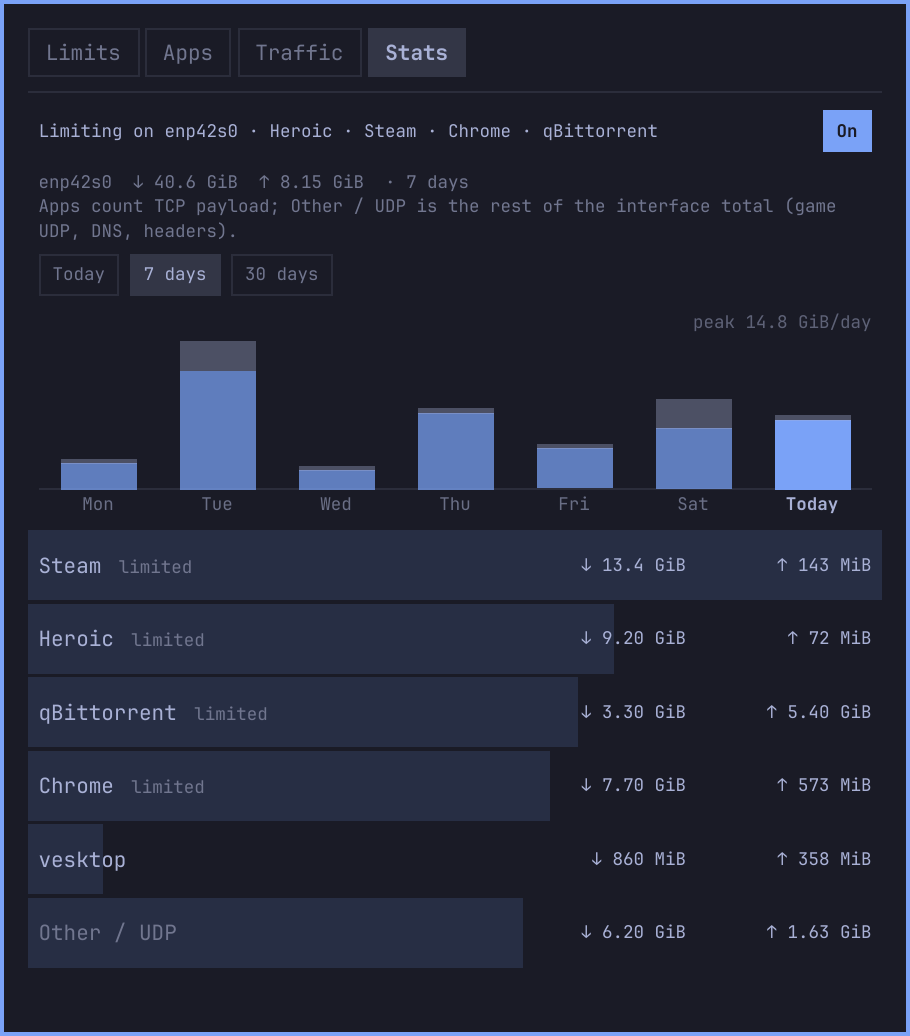
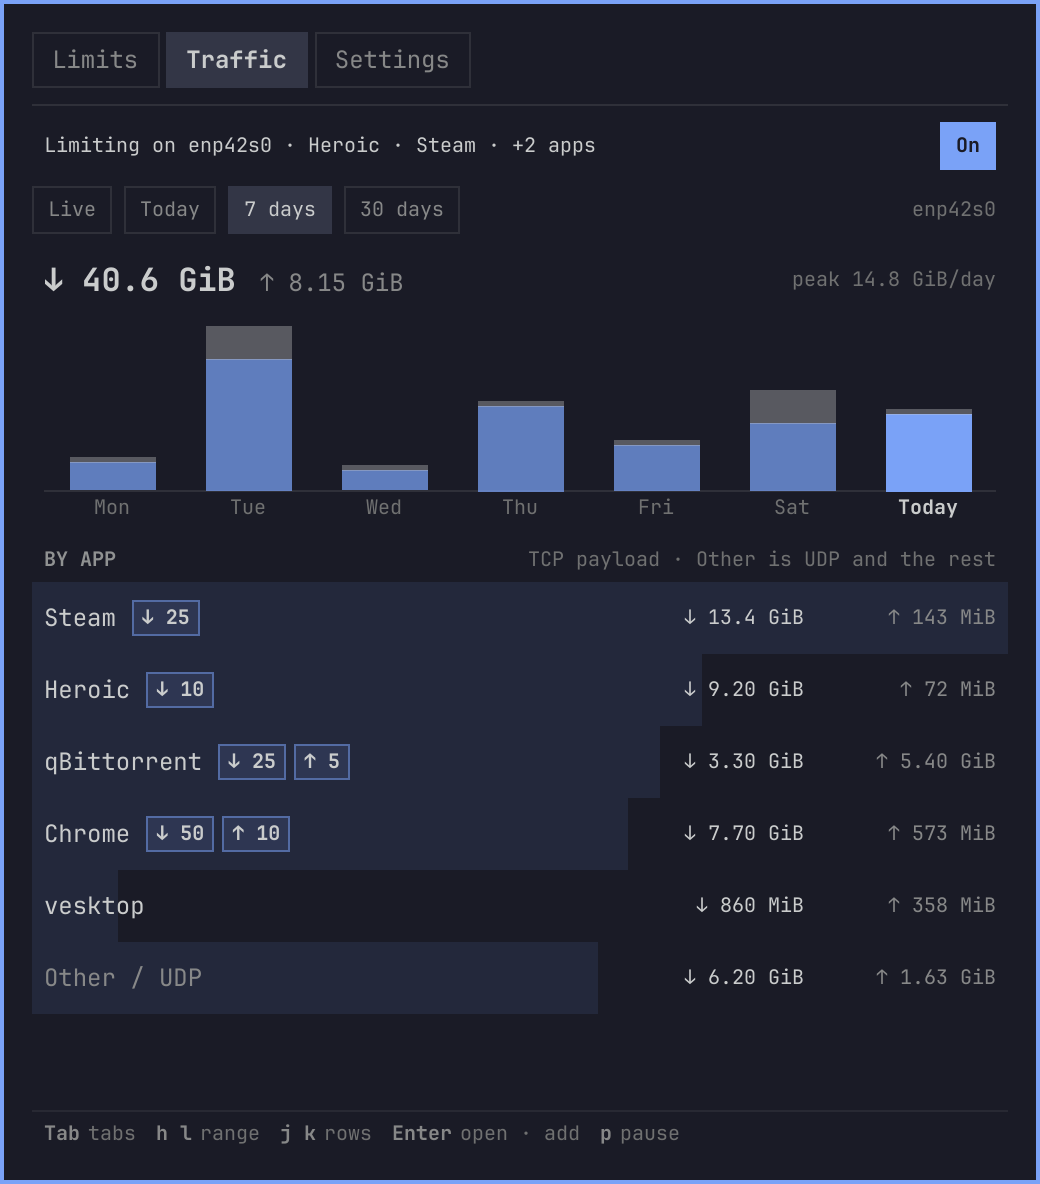
README and previews for the new layout, version 1.2.0

diff --git a/README.md b/README.md
@@ -5,31 +5,54 @@ apps — Heroic and Steam built in, plus any other program (Chrome, Vesktop, a
 torrent client…) — so one download doesn't wreck your ping while you play, and
 shows where your traffic went today, this week and this month.
 
-![Apps tab](preview.png)
+Two levels of tabs: **Limits** (Apps · Connection · + Add), **Traffic**
+(Live · Today · 7 days · 30 days) and **Settings**.
 
-- **Limits** — global download / upload caps on the default-route interface
-  (picked automatically, follows Wi-Fi ↔ Ethernet). **Off / 10 / 25 / 50 / 100**
-  Mbit/s or **Custom**.
-- **Apps** — per-app caps, matched by the app's systemd cgroup. **Heroic**
-  (incl. `legendary` / `gogdl` / `nile`) and **Steam** are always there; add
-  any other program from the ones that have connections open right now (one
-  click) or by process name (as in `ps -o comm`, e.g. `chrome`, `vesktop`,
-  `qbittorrent`). Up to 8 apps; custom ones have a **Remove** chip (click
-  twice). **Games-safe** / **Big transfers only** caps only TCP transfers past
-  4 MiB, so game UDP, calls and small requests stay fast.
-- **Traffic** — live per-app rates (from `ss`, no root) next to the interface
-  total.
-- **Stats** — how much each app downloaded / uploaded **today**, over **7** or
-  **30 days**, with a per-day chart and the interface total. Collected without
+| Limits › Apps | Limits › Apps › Heroic |
+| --- | --- |
+| ![Limits › Apps](preview.png) | ![App detail](preview-detail.png) |
+
+- **Limits › Apps** — one compact row per app: state dot, what it is doing
+  right now and its ↓ / ↑ caps. **Heroic** (incl. `legendary` / `gogdl` /
+  `nile`) and **Steam** are always there. **Enter** opens the app: Download
+  and Upload caps — **Off / 10 / 25 / 50 / 100** Mbit/s (the steps are
+  configurable) or **Custom**, each with an "≈ MB/s" hint — and **Games-safe**,
+  which caps only TCP transfers past 4 MiB so game UDP, calls and small
+  requests stay fast. Custom apps have a **Remove** chip (press twice).
+  Matched by the app's systemd cgroup.
+- **Limits › Connection** — download / upload caps for everything on the
+  default-route interface (picked automatically, follows Wi-Fi ↔ Ethernet).
+- **Limits › + Add** — any other program (Chrome, Vesktop, a torrent
+  client…): one of the ones online right now, or by process name (as in
+  `ps -o comm`). Up to 8 apps; a new app opens straight in its detail view.
+- **Traffic › Live** — the interface total and a stacked per-app chart of the
+  last 90 s, then live per-app rates (from `ss`, no root) with their caps and
+  an **Add** chip for programs that aren't limited yet.
+- **Traffic › Today / 7 days / 30 days** — how much each app downloaded /
+  uploaded, with a per-day chart and the interface total. Collected without
   root every 10 s (TCP byte counters from `ss` + `/sys/class/net`); whatever
   the per-app rows don't explain (game UDP, DNS, headers, root daemons) is the
-  **Other / UDP** row. Kept for 35 days in
+  **Other / UDP** row. Kept for 35 days (7 / 35 / 90 in Settings) in
   `~/.local/state/omarchy/yoyo.throttle/stats.json` (a few KB).
+- **Settings** — live rates in Mbit/s or MB/s, the bar widget style, the
+  preset steps, the Games-safe threshold (2 / 4 / 8 / 16 MiB, all apps),
+  history length, Clear history, and the helper's install / uninstall command.
 
-![Stats tab](preview-stats.png)
+| Traffic › Live | Traffic › 7 days | Settings |
+| --- | --- | --- |
+| ![Live traffic](preview-live.png) | ![Traffic history](preview-stats.png) | ![Settings](preview-settings.png) |
 
-**Tab** cycles tabs · **h/l** chips / range · **j/k** rows · **Enter** acts
-(adds a suggested app, arms/confirms Remove, focuses the name field) · **p** pauses
+**Tab** cycles the top tabs · **h/l** sub-tabs (or the chips of the row under
+the cursor) · **j/k** rows (moving up from the first row reaches the sub-tabs)
+· **Enter** opens / toggles / acts · **Esc** goes back from an app, then
+closes · **p** pauses
+
+**Bar widget** — the speedometer is accent while limits are active, dimmed
+while paused and red on an error; its tooltip lists every cap with its live
+rate. Settings › Bar widget adds a red **dot** while a cap is maxed out (≥ 90 %)
+or the live download **rate** next to the icon (horizontal bars).
+
+![Bar widget states: icon limiting, idle, dot, rate, paused, error](preview-bar.png)
 
 Limits persist and re-apply at login and whenever a limited app restarts.
 
@@ -61,10 +84,10 @@ systemd-run --user --scope --quiet --collect -- %command%
 ```
 
 Start limited apps from the app launcher, not a terminal: an app started from
-a terminal shares the terminal's cgroup, so it is refused (the Apps tab says
+a terminal shares the terminal's cgroup, so it is refused (Limits › Apps says
 so) rather than capping your shell. Shells, `sudo`, Hyprland, PipeWire and
-other session processes can't be added. Per-app Traffic and Stats rows count
-TCP only; UDP is in the total.
+other session processes can't be added. Per-app Traffic rows count TCP only;
+UDP is in the total and in Other.
 
 ## Uninstall
 
